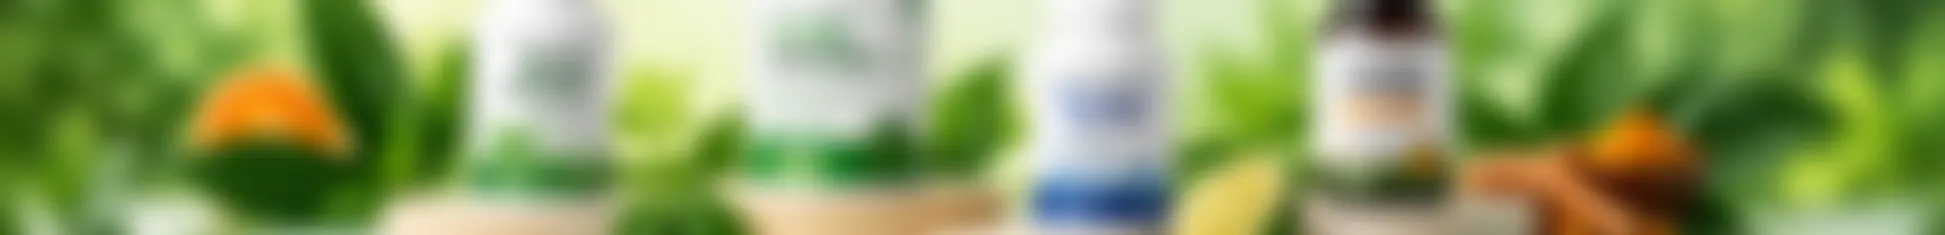
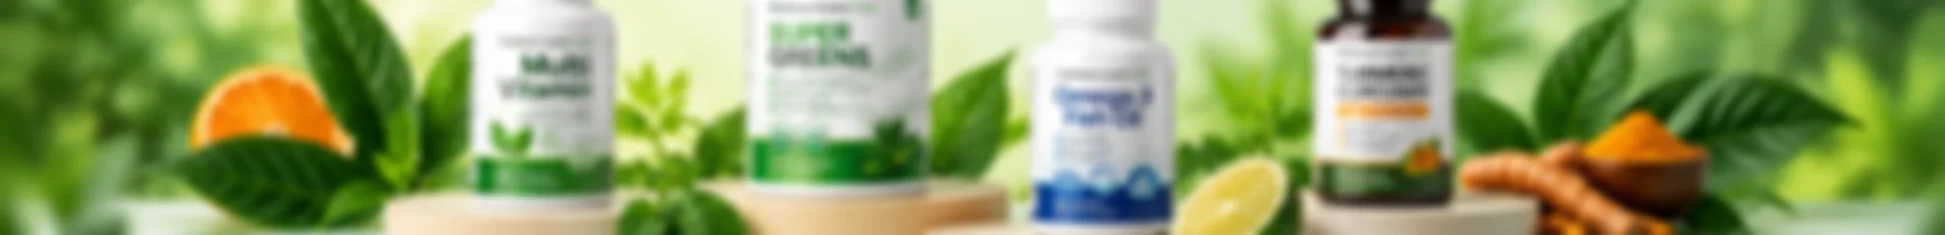
fix: reduce hero background blur to natural soft-focus
The previous commit (7fa2bb9) fixed a real problem — sharp product-label
text was legible in the hero at wide viewports — by overcorrecting with
sharp's .blur(14) on the source crop. Combined with object-fit:cover's own
~2.25x upscale at typical hero heights (a 235px-tall source stretched to
fill a ~530px container), that produced an indistinct wash: bottle shapes,
colors and the surrounding greenery were no longer recognizable as premium
product photography, just soft color blobs. Reported and confirmed against
the live production screenshot.

Fix: same crop, same source image, .blur(5) instead of .blur(14) — tested
at several intermediate values (0/2/3/4/5/6) and picked by actually
rendering each into the page at the worst-case width (1440px, where the
upscale factor is largest) rather than judging the isolated asset. At blur 5:
bottle silhouettes, cap/shoulder/body shape, label color-blocking, the lime,
and the surrounding leaves/citrus/turmeric are all clearly recognizable —
matching "sharp natural greenery -> recognizable wellness products -> soft
background." Packaging text ("Omega-3 Fish Oil", the claim bullets,
"Wellness Center USA") stays illegible at every breakpoint, the actual
requirement blur(14) was solving for — verified by rendering, not assumed.

Nothing else changed: same crop coordinates, same object-fit:cover/
object-center responsive behavior, same CSS scrim, same CTAs and copy.
Product architecture, RLS, /go/[slug], migration 0022, SEO, and analytics
[…]

diff --git a/src/app/(public)/page.tsx b/src/app/(public)/page.tsx
@@ -57,16 +57,16 @@ export default function HomePage() {
   );
 }
 
-// hero-products.webp (src/app/(public)/_assets/) is a cropped, optimized
-// still of real, generic wellness-product photography — bottles, citrus,
-// turmeric, greenery — used purely as decorative background texture. It was
-// cropped from a larger reference mockup that also contained a fabricated
-// review count, a fabricated discount badge, and cart/account icons this
-// site has no equivalent of (no accounts, no cart — /go/[slug] is the only
-// purchase path, and it leaves this site entirely). None of that survived
-// the crop. Nothing here claims these specific bottles are real listings;
-// the actual homepage catalogue renders below in DiscoverySections, from
-// real database rows only.
+// hero-products.webp (src/app/(public)/_assets/) is a cropped, lightly
+// softened still of real, generic wellness-product photography — bottles,
+// citrus, turmeric, greenery — used purely as decorative background
+// texture. It was cropped from a larger reference mockup that also
+// contained a fabricated review count, a fabricated discount badge, and
+// cart/account icons this site has no equivalent of (no accounts, no cart —
+// /go/[slug] is the only purchase path, and it leaves this site entirely).
+// None of that survived the crop. Nothing here claims these specific
+// bottles are real listings; the actual homepage catalogue renders below in
+// DiscoverySections, from real database rows only.
 function Hero() {
   return (
     <section className="relative overflow-hidden border-b border-line bg-brand-900">
@@ -85,16 +85,20 @@ function Hero() {
           sizes="100vw"
           className="object-cover object-center"
         />
-        {/* hero-products.webp is pre-blurred at the file level (see the
-            asset comment above) specifically so no packaging text is ever
-            legible, at any viewport or overlay opacity — a first attempt at
-            this used a sharp crop with only a CSS scrim for contrast, and at
-            wide viewports "Omega-3 Fish Oil" and its claim bullets were
-            still clearly readable, which is exactly the kind of implied
-            product claim this project does not ship. With the source image
-            itself illegible, this overlay only has to do the ordinary job
-            of a hero scrim: contrast for the headline, and a static color
-            rather than something that shifts with image content. */}
+        {/* hero-products.webp carries a light, uniform soft-focus (sharp
+            .blur(5) on the source crop, before object-fit:cover's own
+            upscaling softens it further on screen) — just enough that
+            packaging text is never legible, while bottle shapes, colors and
+            the surrounding greenery stay clearly recognizable as premium
+            product photography. Two earlier attempts got this wrong in
+            opposite directions: a sharp crop with only a CSS scrim left
+            "Omega-3 Fish Oil" and its claim bullets clearly readable at wide
+            viewports (exactly the kind of implied product claim this
+            project does not ship); a heavy .blur(14) then overcorrected
+            into the whole image reading as an indistinct wash, which is
+            what this comment and asset replace. This overlay does the
+            ordinary job of a hero scrim — contrast for the headline — not
+            text-hiding duty. */}
         <div className="absolute inset-0 bg-gradient-to-r from-brand-900 via-brand-900/75 to-brand-900/35 sm:via-brand-900/60 sm:to-brand-900/25" />
         <div className="absolute inset-0 bg-gradient-to-t from-brand-900/35 via-transparent to-transparent" />
       </div>
